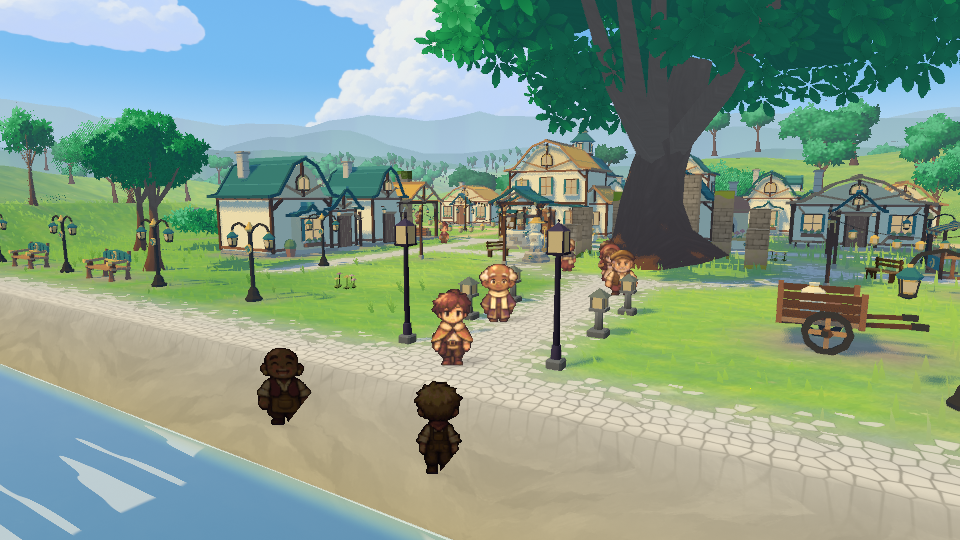
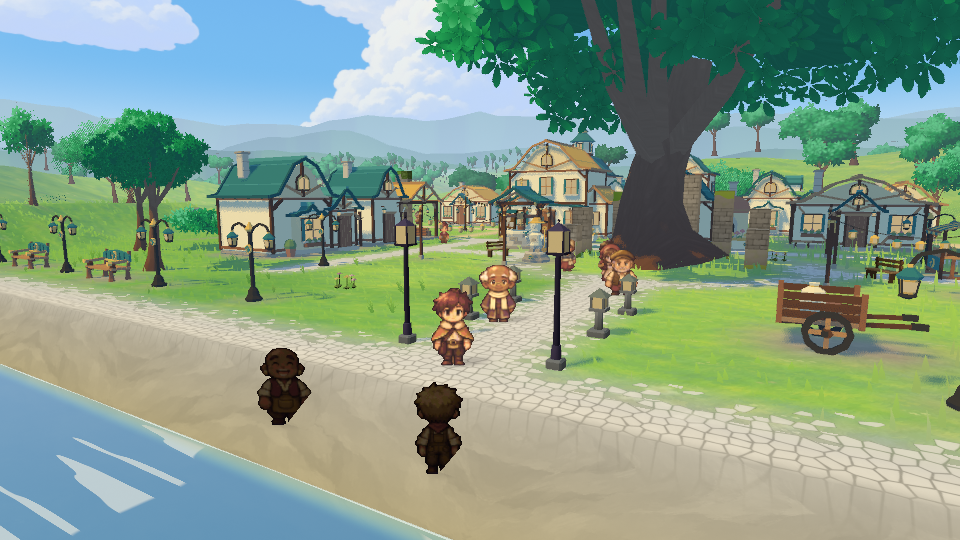
Freeze scene animation before comparing approved pictures

diff --git a/docs/shots/README.md b/docs/shots/README.md
@@ -2,7 +2,7 @@
 
 The approved set uses medium quality. High-quality farm and rain exceeded the triangle budget during setup; those game rendering changes are outside this tool.
 
-Run `bun tools/shots.mjs all --approve`, inspect the six PNGs, then run `bun tools/shots.mjs all --check`. A single scene name also works. Scenes in `tools/shots/scenes.json` define the URL flags, seed, location, camera, hour and weather. Output and counters go to `.artifacts/shots/`. The tool builds the game and owns a server on port 5526, overridden by `PLAY_PORT`.
+Run `bun tools/shots.mjs all --approve`, inspect the six PNGs, then run `bun tools/shots.mjs all --check`. A single scene name also works. Scenes in `tools/shots/scenes.json` define the URL flags, seed, location, camera, hour and weather. Capture takes fixed animation steps and freezes the draw loop before reading pixels. Output and counters go to `.artifacts/shots/`. The tool builds the game and owns a server on port 5526, overridden by `PLAY_PORT`.
 
 Approved PNGs are 960 by 540. Each JSON records the renderer, scene settings, draw counters and total built JavaScript bytes. A check fails if over 2.5% of pixels differ by more than 24 color levels, scene settings changed, console errors occurred, the rendered geometry is empty, or the picture exceeds 150 draw calls or 400,000 triangles. Script bytes are reported without a size limit, since the repo has no approved script-size budget.
 
